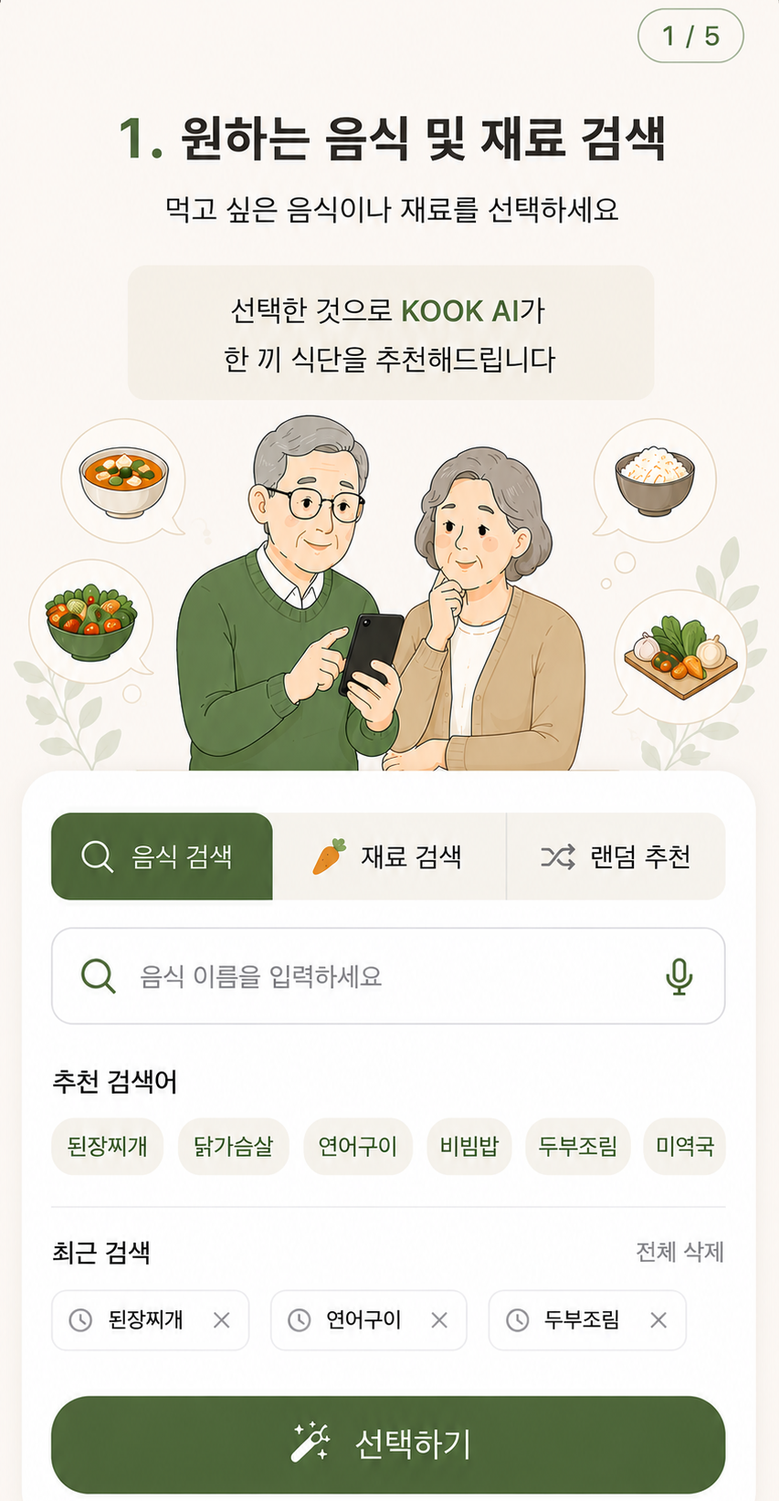
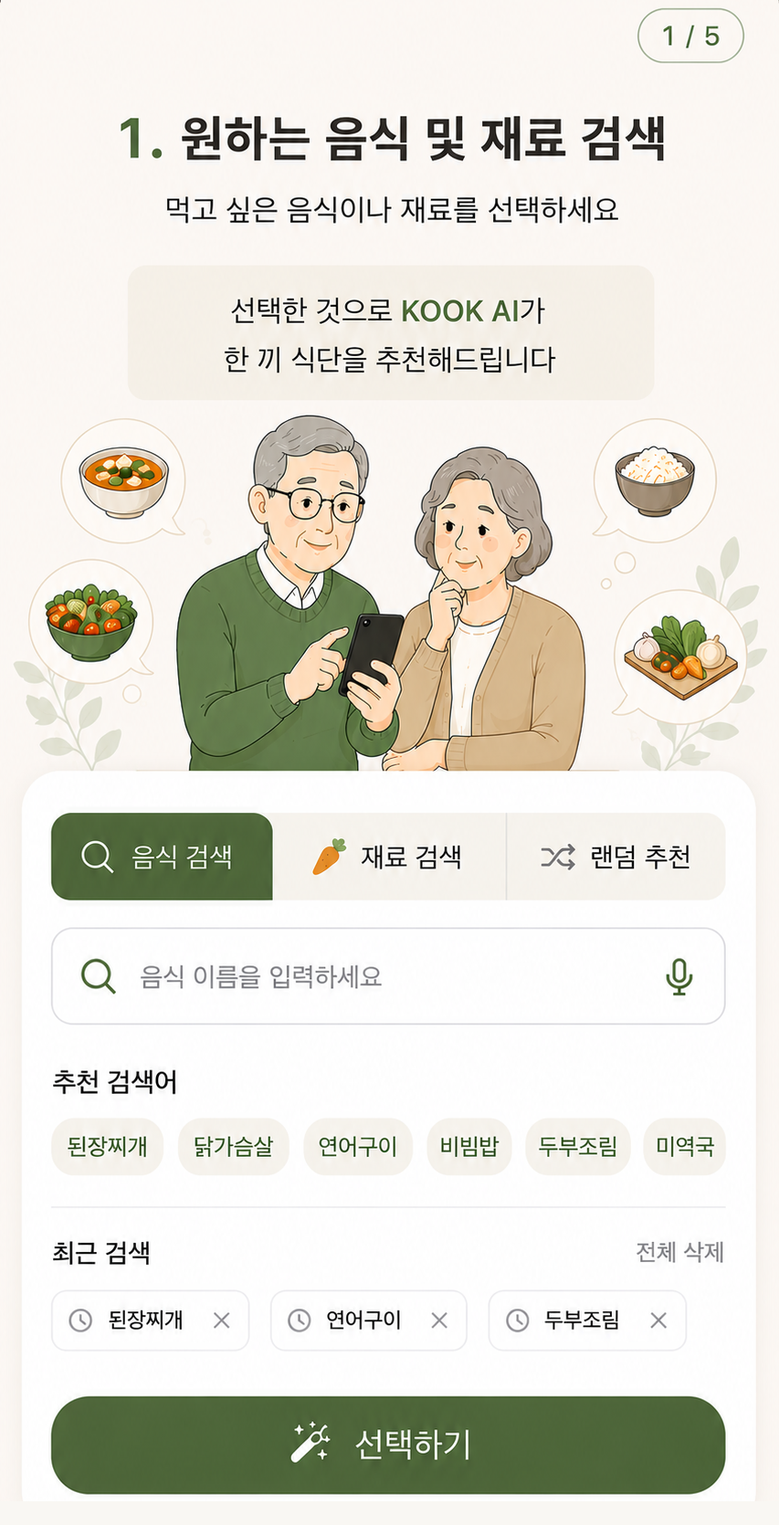
온보딩 1~5단계 이미지 비율 통일 + 스크롤바 여백 안정화
onboarding-1~5.png가 서로 다른 종횡비(1.84~1.96)로 제작돼 있어서
object-fit:cover 확대율이 스텝마다 달라지고 이미지에 그려진 n/5 배지
위치가 어긋나 보였다. 배경색이 동일하다는 점을 이용해 재작업 없이
가장 큰 비율에 맞춰 아래쪽에만 여백을 추가(상단 콘텐츠는 그대로).
.screen에 scrollbar-gutter:stable도 추가해 스크롤 유무에 따른
화면 폭 흔들림을 방지.

diff --git a/frontend/src/styles.css b/frontend/src/styles.css
@@ -1,5 +1,5 @@
 
-:root{font-family:Pretendard,"Noto Sans KR",Inter,system-ui,-apple-system,sans-serif;color:#29241f;background:#f4f1eb;--g:#7f9560;--gd:#55683f;--gs:#f3f5ed;--line:#e7e2d8;--muted:#756f67;--warn:#c88f42;--red:#a9362c;--ink:#3b3129;--cream:#fbfaf6}*{box-sizing:border-box}body{margin:0;min-width:320px;min-height:100vh}button,input{font:inherit}button{cursor:pointer}.page{min-height:100vh;display:grid;place-items:center;padding:18px}.phone{width:min(100%,390px);height:min(844px,calc(100vh - 36px));background:var(--cream);border-radius:32px;box-shadow:0 24px 70px #28452f22;overflow:hidden;display:flex;flex-direction:column;position:relative}.header{height:76px;display:flex;align-items:center;justify-content:space-between;padding:12px 20px;border-bottom:1px solid #f1f3f1;flex:0 0 auto}.header-title{font-weight:800;letter-spacing:-.02em;color:var(--ink);font-size:14px}.logo-button{border:0;background:none;padding:0;width:58px;height:58px;display:grid;place-items:center}.logo-button img{width:100%;height:100%;object-fit:contain;mix-blend-mode:multiply}.avatar{width:36px;height:36px;border:0;border-radius:50%;background:var(--gs);color:var(--gd);font-weight:800}.back{border:0;background:none;font-size:24px}.header-space{width:30px}.screen{flex:1;min-height:0;padding:24px;overflow-y:auto;overscroll-behavior:contain}.footer{flex:0 0 auto;padding:12px 22px max(20px,env(safe-area-inset-bottom));background:#fffc;border-top:1px solid #f2f3f2}.btn{width:100%;min-height:54px;border:0;border-radius:16px;background:var(--g);color:#fff;font-weight:800;box-shadow:0 9px 24px #3f8f5a22}.btn:disabled{opacity:.4}.btn-secondary{background:#fff;color:var(--gd);border:1px solid #bad3bf;box-shadow:none}.eyebrow{margin:0 0 9px;color:var(--g);font-weight:800;font-size:14px}h1{font-size:30px;line-height:1.28;letter-spacing:-.045em;margin:0;white-space:pre-line}h2,h3{letter-spacing:-.03em}.sub{color:var(--muted);line-height:1.65;margin:14px 0 0}.onboarding-top{display:flex;justify-content:space-between;align-items:center;margin-bottom:28px}.brand-mini{width:78px;height:78px;object-fit:contain;mix-blend-mode:multiply}.skip{border:0;background:none;color:var(--muted)}.visual-card{margin:26px 0 18px;border:1px solid var(--line);background:linear-gradient(#fffdf8,#f4f3ea);border-radius:24px;padding:14px;min-height:270px;display:flex;flex-direction:column;justify-content:center;overflow:hidden}.visual-card img{width:100%;border-radius:17px;object-fit:cover}.hero img{height:270px;object-position:center;filter:saturate(.88)}.food-hero img{height:190px}.fake-search{background:#fff;border:1px solid var(--line);padding:13px 14px;border-radius:13px;margin-bottom:12px;color:#48554c}.role-pills{display:flex;flex-wrap:wrap;gap:6px;margin-top:12px}.role-pills span,.quick-nutrition span{padding:7px 10px;border-radius:999px;background:#fff;border:1px solid var(--line);font-size:11px;color:var(--gd)}.compare-mini{gap:9px}.compare-mini img{height:90px}.compare-mini>span{text-align:center;color:var(--g);font-weight:800}.action-icons{display:grid;grid-template-columns:repeat(3,1fr);gap:8px;margin-top:12px}.action-icons span{background:#fff;border:1px solid var(--line);border-radius:13px;padding:11px;text-align:center;font-size:12px}.trust,.disclaimer{margin-top:14px;padding:13px 14px;border-radius:14px;background:var(--gs);font-size:12px;color:#42604b;line-height:1.55}.disclaimer{background:#f7f7f5;color:var(--muted)}.dots{display:flex;gap:7px;justify-content:center;margin-bottom:12px}.dot{width:7px;height:7px;border:0;border-radius:20px;background:#d9dfda;padding:0}.dot.active{width:22px;background:var(--g)}.tiny-center{text-align:center;color:var(--muted);font-size:12px;margin:0}.center-brand{text-align:center}.center-brand img{width:190px;max-height:190px;object-fit:contain;mix-blend-mode:multiply}.choice-grid{display:grid;gap:13px;margin-top:28px}.choice-card{width:100%;border:1px solid var(--line);background:#fff;border-radius:20px;padding:15px;display:grid;grid-template-columns:86px 1fr;gap:14px;text-align:left;align-items:center}.choice-card img,.choice-illustration{width:86px;height:76px;border-radius:15px;object-fit:cover}.choice-illustration{display:grid;place-items:center;background:var(--gs);color:var(--g);font-size:38px}.choice-card b{display:block;margin-bottom:6px}.choice-card span{font-size:12px;color:var(--muted);line-height:1.5}.form{display:grid;gap:18px;margin-top:28px}.form label{display:grid;gap:8px;font-size:14px;font-weight:800}.segments{display:grid;grid-template-columns:1fr 1fr;gap:8px}.segment{min-height:48px;border:1px solid var(--line);background:#fff;border-radius:14px}.segment.active{background:var(--gs);border-color:var(--g);color:var(--gd)}.field{display:flex;align-items:center;border:1px solid var(--line);border-radius:14px;padding:0 14px}.field input{height:50px;border:0;outline:0;flex:1;min-width:0}.field span{color:var(--muted);font-weight:500}.dialysis-cards{display:grid;gap:12px;margin-top:26px}.dialysis-card{position:relative;border:1px solid var(--line);border-radius:20px;background:#fff;padding:18px;display:grid;grid-template-columns:55px 1fr;grid-template-rows:auto auto;text-align:left;column-gap:14px;align-items:center}.dialysis-card.selected{border:2px solid var(--g);background:var(--gs)}.medical-icon{grid-row:1/3;width:52px;height:52px;display:grid;place-items:center;border-radius:15px;background:#fff;border:1px solid var(--line);color:var(--g);font-weight:900}.dialysis-card span{color:var(--muted);font-size:12px}.dialysis-card i{position:absolute;right:16px;top:16px;width:24px;height:24px;border-radius:50%;display:grid;place-items:center;background:var(--g);color:#fff;font-style:normal}.modal-bg{position:absolute;inset:0;background:#17211977;z-index:10;display:grid;place-items:end center;padding:18px}.modal{width:100%;background:#fff;border-radius:25px;padding:24px;text-align:center}.modal-mark{width:42px;height:42px;margin:auto;border-radius:50%;display:grid;place-items:center;background:var(--gs);color:var(--g);font-weight:900}.modal h2{font-size:21px}.modal p{color:var(--muted);line-height:1.6;font-size:14px}.tabs{display:grid;grid-template-columns:1fr 1fr;border-bottom:1px solid var(--line);margin-top:26px}.tab{min-height:48px;border:0;border-bottom:2px solid transparent;background:none;color:var(--muted)}.tab.active{color:var(--gd);font-weight:800;border-bottom-color:var(--g)}.search{margin-top:17px;display:flex;align-items:center;gap:8px;border:1px solid var(--line);border-radius:15px;padding:0 14px}.search input{height:50px;border:0;outline:0;flex:1;min-width:0}.section-title{font-size:15px;margin:27px 0 11px}.chips{display:flex;flex-wrap:wrap;gap:8px}.chips button{padding:9px 13px;border-radius:999px;border:1px solid var(--line);background:#fff;color:#48534b}.chips.selected button{background:var(--gs);color:var(--gd);border-color:#bdd5c1}.recommend{display:grid;grid-template-columns:105px 1fr;gap:13px;align-items:center;border:1px solid var(--line);border-radius:18px;padding:12px}.recommend img{width:105px;height:86px;object-fit:cover;border-radius:14px}.recommend b,.recommend span{display:block}.recommend span{color:var(--muted);font-size:12px;margin-top:6px}.loading-page{text-align:center}.loader-plate{width:225px;height:225px;margin:35px auto 22px;border-radius:50%;position:relative;display:grid;place-items:center;background:var(--gs)}.loader-plate img{width:168px;height:168px;border-radius:50%;object-fit:cover}.orbit{position:absolute;inset:0;border:3px solid transparent;border-top-color:var(--g);border-right-color:#9fc2a4;border-radius:50%;animation:spin 1.4s linear infinite}@keyframes spin{to{transform:rotate(360deg)}}.loading-message{font-weight:800}.progress{height:9px;border-radius:99px;background:#e7ede8;overflow:hidden}.progress i{display:block;height:100%;background:var(--g);transition:width .5s}.loading-list{margin-top:24px;text-align:left;display:grid;gap:13px;color:#a1aaa3}.loading-list div{display:flex;gap:9px}.loading-list .done{color:var(--gd)}.meal-grid{display:grid;grid-template-columns:1fr 1fr;gap:10px;margin:24px 0 16px}.meal-card{border:1px solid var(--line);background:#fff;border-radius:18px;padding:16px 14px;text-align:left}.meal-card.featured{grid-column:1/-1;background:var(--gs);border-color:#bdd5c1}.meal-card span{display:block;color:var(--g);font-size:11px;font-weight:800}.meal-card b{display:block;margin-top:6px;font-size:15px}.nutrient-list{margin-top:22px;border:1px solid var(--line);border-radius:18px;overflow:hidden}.nutrient-row{padding:14px;display:flex;justify-content:space-between;align-items:center;border-bottom:1px solid #edf0ed}.nutrient-row:last-child{border-bottom:0}.nutrient-row b,.nutrient-row small{display:block}.nutrient-row small{font-size:10px;color:var(--muted);margin-top:3px}.nutrient-value{display:flex;align-items:baseline;gap:4px}.nutrient-value strong{font-size:17px}.nutrient-value span{font-size:11px;color:var(--muted)}.nutrient-value em{margin-left:7px;font-style:normal;color:var(--g);background:var(--gs);padding:5px 7px;border-radius:99px;font-size:10px}.nutrient-value em.warning{color:#c66b19;background:#fff1e3}.nutrient-list.compact .nutrient-row{padding:10px 12px}.warning-box{margin-top:14px;border:1px solid #ffd1a8;background:#fff7ef;border-radius:16px;padding:14px}.warning-box b,.warning-box span{display:block}.warning-box b{color:#c66b19}.warning-box span{font-size:12px;color:var(--muted);margin-top:5px}.adjust-stage{margin-top:24px;display:grid;gap:14px}.food-before,.food-after{border:1px solid var(--line);border-radius:18px;padding:10px;transition:.8s}.food-before.fade{opacity:.35;transform:scale(.96)}.food-before img,.food-after img{width:100%;height:110px;object-fit:cover;border-radius:13px}.food-before span,.food-after span{display:block;margin-top:7px;font-size:12px}.food-after{opacity:0;transform:translateY(16px)}.food-after.show{opacity:1;transform:none}.swap-row{display:grid;grid-template-columns:1fr 30px 1fr;align-items:center;text-align:center}.ingredient{padding:12px;border-radius:14px;background:#fff4eb;color:#a65d1d;transition:.8s}.ingredient.leave{opacity:.25;transform:translateY(-12px)}.ingredient.enter{opacity:.2;transform:translateY(12px);background:var(--gs);color:var(--gd)}.ingredient.enter.active{opacity:1;transform:none}.change-list{margin-top:20px;display:grid;gap:10px}.change-list div{opacity:0;transform:translateY(8px);transition:.45s;padding:10px 12px;background:var(--gs);border-radius:12px;color:var(--gd);font-size:13px}.change-list div.show{opacity:1;transform:none}.comparison{margin-top:24px;display:grid;grid-template-columns:1fr 24px 1fr;gap:7px;align-items:center}.comparison section{border:1px solid var(--line);border-radius:17px;padding:9px}.comparison img{width:100%;height:100px;object-fit:cover;border-radius:12px;margin:8px 0}.comparison b,.comparison p{display:block;font-size:12px}.comparison p{color:var(--muted);line-height:1.5}.compare-arrow{text-align:center;color:var(--g);font-weight:900}.tag{font-size:10px;padding:5px 7px;border-radius:99px}.tag.bad{background:#fff0e8;color:#b96220}.tag.good{background:var(--gs);color:var(--gd)}.reason-card{margin-top:15px;padding:15px;border-radius:16px;background:var(--gs)}.reason-card p{font-size:13px;color:var(--muted);line-height:1.6;margin-bottom:0}.final-hero{position:relative;margin-top:22px}.final-hero img{width:100%;height:220px;object-fit:cover;border-radius:22px}.final-hero span{position:absolute;right:12px;top:12px;background:var(--g);color:#fff;padding:8px 10px;border-radius:99px;font-size:11px}.action-grid{display:grid;grid-template-columns:repeat(3,1fr);gap:8px;margin-top:14px}.action-grid button{border:1px solid var(--line);background:#fff;border-radius:15px;padding:12px 6px;font-weight:800}.action-grid span{display:block;font-size:10px;margin-top:5px}.recipe-links{display:grid;gap:8px}.recipe-links button{display:grid;grid-template-columns:50px 1fr 20px;align-items:center;text-align:left;border:1px solid var(--line);border-radius:14px;background:#fff;padding:12px}.recipe-links span{font-size:10px;color:var(--g)}.recipe-links i{text-align:right;font-style:normal}.recipe-hero{position:relative}.recipe-hero img{width:100%;height:230px;object-fit:cover;border-radius:21px}.recipe-hero span{position:absolute;right:12px;top:12px;background:var(--gs);color:var(--gd);border-radius:99px;padding:7px 9px;font-size:10px}.recipe-title{margin-top:18px}.quick-nutrition{display:flex;gap:7px;flex-wrap:wrap;margin-top:12px}.ingredient-list{display:grid;grid-template-columns:1fr 1fr;gap:8px;padding:0;list-style:none}.ingredient-list li{background:var(--gs);border-radius:12px;padding:10px;font-size:12px}.steps{list-style:none;padding:0;display:grid;gap:13px}.steps li{display:grid;grid-template-columns:28px 1fr;gap:9px}.steps li>span{width:27px;height:27px;border-radius:50%;display:grid;place-items:center;background:var(--g);color:#fff;font-size:12px}.steps p{margin:2px 0;color:#455148;line-height:1.55;font-size:13px}.pdf-page{background:#fff;border:1px solid var(--line);padding:18px;box-shadow:0 8px 25px #1f292311}.pdf-brand{display:flex;align-items:center;gap:12px;border-bottom:2px solid var(--g);padding-bottom:10px}.pdf-brand img{width:58px}.pdf-brand b,.pdf-brand span{display:block}.pdf-brand span{font-size:10px;color:var(--muted)}.pdf-meal{width:100%;height:170px;object-fit:cover;border-radius:12px}.pdf-page h2{font-size:22px}.pdf-page h3{font-size:13px;color:var(--gd);margin-top:18px}.pdf-page table{width:100%;border-collapse:collapse;font-size:11px}.pdf-page th,.pdf-page td{border-bottom:1px solid #e9ece9;padding:7px;text-align:left}.pdf-page p,.pdf-page li{font-size:10px;line-height:1.55}.pdf-notice{margin-top:17px;background:var(--gs);padding:10px;font-size:8px;line-height:1.5;color:#526256}@media(max-width:430px){.page{padding:0;display:block;background:#fff}.phone{width:100%;height:100dvh;border-radius:0;box-shadow:none}}@media(prefers-reduced-motion:reduce){*{animation:none!important;transition:none!important}}
+:root{font-family:Pretendard,"Noto Sans KR",Inter,system-ui,-apple-system,sans-serif;color:#29241f;background:#f4f1eb;--g:#7f9560;--gd:#55683f;--gs:#f3f5ed;--line:#e7e2d8;--muted:#756f67;--warn:#c88f42;--red:#a9362c;--ink:#3b3129;--cream:#fbfaf6}*{box-sizing:border-box}body{margin:0;min-width:320px;min-height:100vh}button,input{font:inherit}button{cursor:pointer}.page{min-height:100vh;display:grid;place-items:center;padding:18px}.phone{width:min(100%,390px);height:min(844px,calc(100vh - 36px));background:var(--cream);border-radius:32px;box-shadow:0 24px 70px #28452f22;overflow:hidden;display:flex;flex-direction:column;position:relative}.header{height:76px;display:flex;align-items:center;justify-content:space-between;padding:12px 20px;border-bottom:1px solid #f1f3f1;flex:0 0 auto}.header-title{font-weight:800;letter-spacing:-.02em;color:var(--ink);font-size:14px}.logo-button{border:0;background:none;padding:0;width:58px;height:58px;display:grid;place-items:center}.logo-button img{width:100%;height:100%;object-fit:contain;mix-blend-mode:multiply}.avatar{width:36px;height:36px;border:0;border-radius:50%;background:var(--gs);color:var(--gd);font-weight:800}.back{border:0;background:none;font-size:24px}.header-space{width:30px}.screen{flex:1;min-height:0;padding:24px;overflow-y:auto;overscroll-behavior:contain;scrollbar-gutter:stable}.footer{flex:0 0 auto;padding:12px 22px max(20px,env(safe-area-inset-bottom));background:#fffc;border-top:1px solid #f2f3f2}.btn{width:100%;min-height:54px;border:0;border-radius:16px;background:var(--g);color:#fff;font-weight:800;box-shadow:0 9px 24px #3f8f5a22}.btn:disabled{opacity:.4}.btn-secondary{background:#fff;color:var(--gd);border:1px solid #bad3bf;box-shadow:none}.eyebrow{margin:0 0 9px;color:var(--g);font-weight:800;font-size:14px}h1{font-size:30px;line-height:1.28;letter-spacing:-.045em;margin:0;white-space:pre-line}h2,h3{letter-spacing:-.03em}.sub{color:var(--muted);line-height:1.65;margin:14px 0 0}.onboarding-top{display:flex;justify-content:space-between;align-items:center;margin-bottom:28px}.brand-mini{width:78px;height:78px;object-fit:contain;mix-blend-mode:multiply}.skip{border:0;background:none;color:var(--muted)}.visual-card{margin:26px 0 18px;border:1px solid var(--line);background:linear-gradient(#fffdf8,#f4f3ea);border-radius:24px;padding:14px;min-height:270px;display:flex;flex-direction:column;justify-content:center;overflow:hidden}.visual-card img{width:100%;border-radius:17px;object-fit:cover}.hero img{height:270px;object-position:center;filter:saturate(.88)}.food-hero img{height:190px}.fake-search{background:#fff;border:1px solid var(--line);padding:13px 14px;border-radius:13px;margin-bottom:12px;color:#48554c}.role-pills{display:flex;flex-wrap:wrap;gap:6px;margin-top:12px}.role-pills span,.quick-nutrition span{padding:7px 10px;border-radius:999px;background:#fff;border:1px solid var(--line);font-size:11px;color:var(--gd)}.compare-mini{gap:9px}.compare-mini img{height:90px}.compare-mini>span{text-align:center;color:var(--g);font-weight:800}.action-icons{display:grid;grid-template-columns:repeat(3,1fr);gap:8px;margin-top:12px}.action-icons span{background:#fff;border:1px solid var(--line);border-radius:13px;padding:11px;text-align:center;font-size:12px}.trust,.disclaimer{margin-top:14px;padding:13px 14px;border-radius:14px;background:var(--gs);font-size:12px;color:#42604b;line-height:1.55}.disclaimer{background:#f7f7f5;color:var(--muted)}.dots{display:flex;gap:7px;justify-content:center;margin-bottom:12px}.dot{width:7px;height:7px;border:0;border-radius:20px;background:#d9dfda;padding:0}.dot.active{width:22px;background:var(--g)}.tiny-center{text-align:center;color:var(--muted);font-size:12px;margin:0}.center-brand{text-align:center}.center-brand img{width:190px;max-height:190px;object-fit:contain;mix-blend-mode:multiply}.choice-grid{display:grid;gap:13px;margin-top:28px}.choice-card{width:100%;border:1px solid var(--line);background:#fff;border-radius:20px;padding:15px;display:grid;grid-template-columns:86px 1fr;gap:14px;text-align:left;align-items:center}.choice-card img,.choice-illustration{width:86px;height:76px;border-radius:15px;object-fit:cover}.choice-illustration{display:grid;place-items:center;background:var(--gs);color:var(--g);font-size:38px}.choice-card b{display:block;margin-bottom:6px}.choice-card span{font-size:12px;color:var(--muted);line-height:1.5}.form{display:grid;gap:18px;margin-top:28px}.form label{display:grid;gap:8px;font-size:14px;font-weight:800}.segments{display:grid;grid-template-columns:1fr 1fr;gap:8px}.segment{min-height:48px;border:1px solid var(--line);background:#fff;border-radius:14px}.segment.active{background:var(--gs);border-color:var(--g);color:var(--gd)}.field{display:flex;align-items:center;border:1px solid var(--line);border-radius:14px;padding:0 14px}.field input{height:50px;border:0;outline:0;flex:1;min-width:0}.field span{color:var(--muted);font-weight:500}.dialysis-cards{display:grid;gap:12px;margin-top:26px}.dialysis-card{position:relative;border:1px solid var(--line);border-radius:20px;background:#fff;padding:18px;display:grid;grid-template-columns:55px 1fr;grid-template-rows:auto auto;text-align:left;column-gap:14px;align-items:center}.dialysis-card.selected{border:2px solid var(--g);background:var(--gs)}.medical-icon{grid-row:1/3;width:52px;height:52px;display:grid;place-items:center;border-radius:15px;background:#fff;border:1px solid var(--line);color:var(--g);font-weight:900}.dialysis-card span{color:var(--muted);font-size:12px}.dialysis-card i{position:absolute;right:16px;top:16px;width:24px;height:24px;border-radius:50%;display:grid;place-items:center;background:var(--g);color:#fff;font-style:normal}.modal-bg{position:absolute;inset:0;background:#17211977;z-index:10;display:grid;place-items:end center;padding:18px}.modal{width:100%;background:#fff;border-radius:25px;padding:24px;text-align:center}.modal-mark{width:42px;height:42px;margin:auto;border-radius:50%;display:grid;place-items:center;background:var(--gs);color:var(--g);font-weight:900}.modal h2{font-size:21px}.modal p{color:var(--muted);line-height:1.6;font-size:14px}.tabs{display:grid;grid-template-columns:1fr 1fr;border-bottom:1px solid var(--line);margin-top:26px}.tab{min-height:48px;border:0;border-bottom:2px solid transparent;background:none;color:var(--muted)}.tab.active{color:var(--gd);font-weight:800;border-bottom-color:var(--g)}.search{margin-top:17px;display:flex;align-items:center;gap:8px;border:1px solid var(--line);border-radius:15px;padding:0 14px}.search input{height:50px;border:0;outline:0;flex:1;min-width:0}.section-title{font-size:15px;margin:27px 0 11px}.chips{display:flex;flex-wrap:wrap;gap:8px}.chips button{padding:9px 13px;border-radius:999px;border:1px solid var(--line);background:#fff;color:#48534b}.chips.selected button{background:var(--gs);color:var(--gd);border-color:#bdd5c1}.recommend{display:grid;grid-template-columns:105px 1fr;gap:13px;align-items:center;border:1px solid var(--line);border-radius:18px;padding:12px}.recommend img{width:105px;height:86px;object-fit:cover;border-radius:14px}.recommend b,.recommend span{display:block}.recommend span{color:var(--muted);font-size:12px;margin-top:6px}.loading-page{text-align:center}.loader-plate{width:225px;height:225px;margin:35px auto 22px;border-radius:50%;position:relative;display:grid;place-items:center;background:var(--gs)}.loader-plate img{width:168px;height:168px;border-radius:50%;object-fit:cover}.orbit{position:absolute;inset:0;border:3px solid transparent;border-top-color:var(--g);border-right-color:#9fc2a4;border-radius:50%;animation:spin 1.4s linear infinite}@keyframes spin{to{transform:rotate(360deg)}}.loading-message{font-weight:800}.progress{height:9px;border-radius:99px;background:#e7ede8;overflow:hidden}.progress i{display:block;height:100%;background:var(--g);transition:width .5s}.loading-list{margin-top:24px;text-align:left;display:grid;gap:13px;color:#a1aaa3}.loading-list div{display:flex;gap:9px}.loading-list .done{color:var(--gd)}.meal-grid{display:grid;grid-template-columns:1fr 1fr;gap:10px;margin:24px 0 16px}.meal-card{border:1px solid var(--line);background:#fff;border-radius:18px;padding:16px 14px;text-align:left}.meal-card.featured{grid-column:1/-1;background:var(--gs);border-color:#bdd5c1}.meal-card span{display:block;color:var(--g);font-size:11px;font-weight:800}.meal-card b{display:block;margin-top:6px;font-size:15px}.nutrient-list{margin-top:22px;border:1px solid var(--line);border-radius:18px;overflow:hidden}.nutrient-row{padding:14px;display:flex;justify-content:space-between;align-items:center;border-bottom:1px solid #edf0ed}.nutrient-row:last-child{border-bottom:0}.nutrient-row b,.nutrient-row small{display:block}.nutrient-row small{font-size:10px;color:var(--muted);margin-top:3px}.nutrient-value{display:flex;align-items:baseline;gap:4px}.nutrient-value strong{font-size:17px}.nutrient-value span{font-size:11px;color:var(--muted)}.nutrient-value em{margin-left:7px;font-style:normal;color:var(--g);background:var(--gs);padding:5px 7px;border-radius:99px;font-size:10px}.nutrient-value em.warning{color:#c66b19;background:#fff1e3}.nutrient-list.compact .nutrient-row{padding:10px 12px}.warning-box{margin-top:14px;border:1px solid #ffd1a8;background:#fff7ef;border-radius:16px;padding:14px}.warning-box b,.warning-box span{display:block}.warning-box b{color:#c66b19}.warning-box span{font-size:12px;color:var(--muted);margin-top:5px}.adjust-stage{margin-top:24px;display:grid;gap:14px}.food-before,.food-after{border:1px solid var(--line);border-radius:18px;padding:10px;transition:.8s}.food-before.fade{opacity:.35;transform:scale(.96)}.food-before img,.food-after img{width:100%;height:110px;object-fit:cover;border-radius:13px}.food-before span,.food-after span{display:block;margin-top:7px;font-size:12px}.food-after{opacity:0;transform:translateY(16px)}.food-after.show{opacity:1;transform:none}.swap-row{display:grid;grid-template-columns:1fr 30px 1fr;align-items:center;text-align:center}.ingredient{padding:12px;border-radius:14px;background:#fff4eb;color:#a65d1d;transition:.8s}.ingredient.leave{opacity:.25;transform:translateY(-12px)}.ingredient.enter{opacity:.2;transform:translateY(12px);background:var(--gs);color:var(--gd)}.ingredient.enter.active{opacity:1;transform:none}.change-list{margin-top:20px;display:grid;gap:10px}.change-list div{opacity:0;transform:translateY(8px);transition:.45s;padding:10px 12px;background:var(--gs);border-radius:12px;color:var(--gd);font-size:13px}.change-list div.show{opacity:1;transform:none}.comparison{margin-top:24px;display:grid;grid-template-columns:1fr 24px 1fr;gap:7px;align-items:center}.comparison section{border:1px solid var(--line);border-radius:17px;padding:9px}.comparison img{width:100%;height:100px;object-fit:cover;border-radius:12px;margin:8px 0}.comparison b,.comparison p{display:block;font-size:12px}.comparison p{color:var(--muted);line-height:1.5}.compare-arrow{text-align:center;color:var(--g);font-weight:900}.tag{font-size:10px;padding:5px 7px;border-radius:99px}.tag.bad{background:#fff0e8;color:#b96220}.tag.good{background:var(--gs);color:var(--gd)}.reason-card{margin-top:15px;padding:15px;border-radius:16px;background:var(--gs)}.reason-card p{font-size:13px;color:var(--muted);line-height:1.6;margin-bottom:0}.final-hero{position:relative;margin-top:22px}.final-hero img{width:100%;height:220px;object-fit:cover;border-radius:22px}.final-hero span{position:absolute;right:12px;top:12px;background:var(--g);color:#fff;padding:8px 10px;border-radius:99px;font-size:11px}.action-grid{display:grid;grid-template-columns:repeat(3,1fr);gap:8px;margin-top:14px}.action-grid button{border:1px solid var(--line);background:#fff;border-radius:15px;padding:12px 6px;font-weight:800}.action-grid span{display:block;font-size:10px;margin-top:5px}.recipe-links{display:grid;gap:8px}.recipe-links button{display:grid;grid-template-columns:50px 1fr 20px;align-items:center;text-align:left;border:1px solid var(--line);border-radius:14px;background:#fff;padding:12px}.recipe-links span{font-size:10px;color:var(--g)}.recipe-links i{text-align:right;font-style:normal}.recipe-hero{position:relative}.recipe-hero img{width:100%;height:230px;object-fit:cover;border-radius:21px}.recipe-hero span{position:absolute;right:12px;top:12px;background:var(--gs);color:var(--gd);border-radius:99px;padding:7px 9px;font-size:10px}.recipe-title{margin-top:18px}.quick-nutrition{display:flex;gap:7px;flex-wrap:wrap;margin-top:12px}.ingredient-list{display:grid;grid-template-columns:1fr 1fr;gap:8px;padding:0;list-style:none}.ingredient-list li{background:var(--gs);border-radius:12px;padding:10px;font-size:12px}.steps{list-style:none;padding:0;display:grid;gap:13px}.steps li{display:grid;grid-template-columns:28px 1fr;gap:9px}.steps li>span{width:27px;height:27px;border-radius:50%;display:grid;place-items:center;background:var(--g);color:#fff;font-size:12px}.steps p{margin:2px 0;color:#455148;line-height:1.55;font-size:13px}.pdf-page{background:#fff;border:1px solid var(--line);padding:18px;box-shadow:0 8px 25px #1f292311}.pdf-brand{display:flex;align-items:center;gap:12px;border-bottom:2px solid var(--g);padding-bottom:10px}.pdf-brand img{width:58px}.pdf-brand b,.pdf-brand span{display:block}.pdf-brand span{font-size:10px;color:var(--muted)}.pdf-meal{width:100%;height:170px;object-fit:cover;border-radius:12px}.pdf-page h2{font-size:22px}.pdf-page h3{font-size:13px;color:var(--gd);margin-top:18px}.pdf-page table{width:100%;border-collapse:collapse;font-size:11px}.pdf-page th,.pdf-page td{border-bottom:1px solid #e9ece9;padding:7px;text-align:left}.pdf-page p,.pdf-page li{font-size:10px;line-height:1.55}.pdf-notice{margin-top:17px;background:var(--gs);padding:10px;font-size:8px;line-height:1.5;color:#526256}@media(max-width:430px){.page{padding:0;display:block;background:#fff}.phone{width:100%;height:100dvh;border-radius:0;box-shadow:none}}@media(prefers-reduced-motion:reduce){*{animation:none!important;transition:none!important}}
 
 .header-actions{display:flex;align-items:center;gap:7px}.detail-header{position:sticky;top:0;z-index:5;background:#fff}.nav-icon{width:38px;height:38px;border:0;border-radius:12px;background:#f4f7f3;color:var(--gd);font-size:21px;font-weight:800;display:grid;place-items:center}.home-icon{font-size:20px}.page-navigation{display:grid;grid-template-columns:1fr 1fr;gap:8px;margin-top:14px}.pdf-footer-actions{display:grid;grid-template-columns:1fr 1.25fr;gap:8px}.meal-recipe-table{table-layout:fixed}.meal-recipe-table th:nth-child(1){width:11%}.meal-recipe-table th:nth-child(2){width:18%}.meal-recipe-table th:nth-child(3){width:28%}.meal-recipe-table th:nth-child(4){width:43%}.meal-recipe-table th,.meal-recipe-table td{vertical-align:top;word-break:keep-all}.meal-recipe-table ul,.meal-recipe-table ol{margin:0;padding-left:13px}.meal-recipe-table li{margin-bottom:3px}.nutrition-pdf-table th,.nutrition-pdf-table td{text-align:center}.pdf-page{width:100%;min-width:680px}.screen:has(.pdf-page){overflow-x:auto}.pdf-page h3{page-break-after:avoid}.meal-recipe-table tr{page-break-inside:avoid}
 @media(max-width:430px){.pdf-page{transform-origin:top left;min-width:680px}.pdf-preview-scroll{overflow-x:auto}}

diff --git a/docs/DEVLOG.md b/docs/DEVLOG.md
@@ -4,6 +4,48 @@
 
 ---
 
+## v24 업데이트 — CORS 배포 주소 교체 + 온보딩 이미지 비율 통일
+
+### CORS
+새로 배포한 프론트 주소(`kook-hemodialysis-meal-ai.vercel.app`)가 예전 팀원
+배포 주소(`kook-omega.vercel.app`)를 대체했다. `server_FOOK.py`의
+`CORS_ORIGINS` 기본값과 `render.yaml` 주석을 새 주소로 교체(localhost 개발
+주소는 유지). 로컬에서 새 주소 허용/예전 주소 차단을 curl로 확인, 실제
+Render 배포에도 반영돼 재배포 후 프론트↔백엔드 연결(회원가입→프로필
+입력→식단 생성) 전체를 브라우저로 확인했다.
+
+### 온보딩 1~5단계 이미지 비율 통일
+사용자가 온보딩 단계 화면의 "n/5" 배지·제목 위치가 스텝마다 미묘하게
+달라 보인다고 지적. 원인: `onboarding-1.png`~`onboarding-5.png` 각각의
+제목·배지가 이미지 자체에 그려져 있는데(라이브 DOM 텍스트 아님), 5장의
+가로세로 비율이 전부 달랐다(1.927 / 1.958 / 1.932 / **1.842** / 1.915).
+화면은 `object-fit: cover`로 프레임 폭에 맞춰 이미지를 확대하므로, 비율이
+다르면 이미지마다 확대율이 달라지고 그 안에 그려진 배지 위치가 화면에서
+어긋나 보였다.
+
+다섯 장의 배경색이 전부 거의 동일한 크림색이라는 점을 이용해, 재작업 없이
+자동으로 고쳤다: 가장 큰 비율(1.958)에 맞춰 나머지 4장의 **아래쪽에만**
+같은 배경색으로 캔버스를 확장(상단 제목·배지 영역은 전혀 안 건드림).
+5장 모두 비율이 1.958로 통일됐고, 브라우저에서 1~5단계를 전부 다시 확인해
+배지·로고 위치가 완전히 일치하는 것을 확인했다. PNG 재인코딩 과정에서
+파일 용량이 다소 늘어난 것(1.5~2MB 선)은 압축 도구 차이로 보이며, 필요하면
+나중에 별도로 더 최적화할 수 있다.
+
+CSS에는 무해한 보조 개선으로 `.screen`에 `scrollbar-gutter: stable`도
+추가했다(콘텐츠 길이에 따라 세로 스크롤바가 있다 없다 하면서 화면 폭이
+미세하게 흔들리는 걸 방지 — 이번 문제의 근본 원인은 아니었지만 같은
+증상 계열이라 같이 넣어둠).
+
+### 검증
+- ✅ `npx tsc -b --force`, `npm run build` 통과.
+- ✅ 백엔드 pytest 63개 통과(무변경).
+- ✅ CORS: curl로 새 주소 허용/예전 주소 차단(로컬 + 실제 Render 배포)
+  확인, 실제 배포 사이트에서 회원가입→프로필→홈→식단 생성까지 클릭 확인.
+- ✅ 온보딩: 로컬에서 1~5단계 전부 스크린샷 비교, "n/5" 배지 위치 완전히
+  일치 확인.
+
+---
+
 ## v23 업데이트 — PDF에 재구성 후 조리법이 들어가도록 수정
 
 사용자가 발견: PDF 안에서 **재료**는 레버 조정 후(=실제 조정된 양) 값을 쓰는데,
